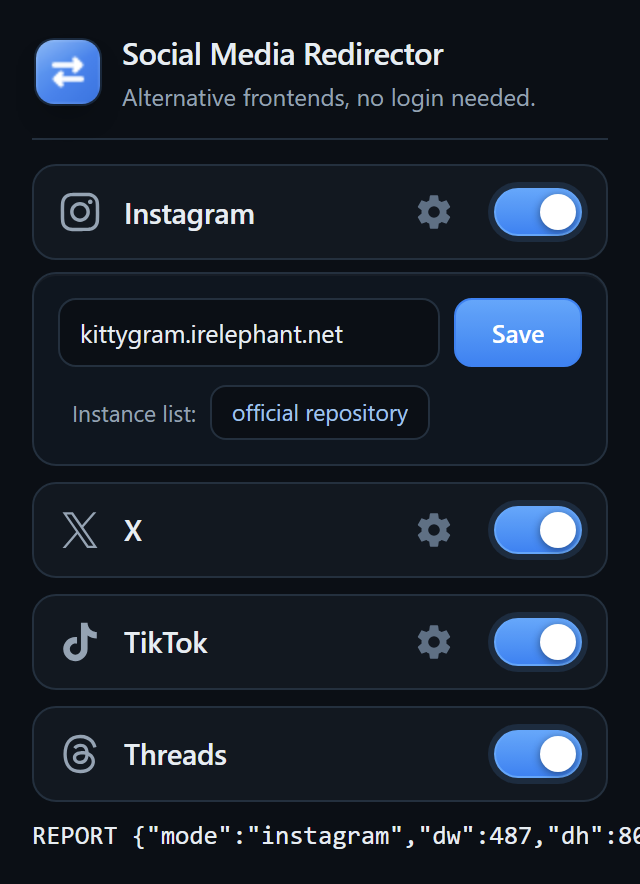
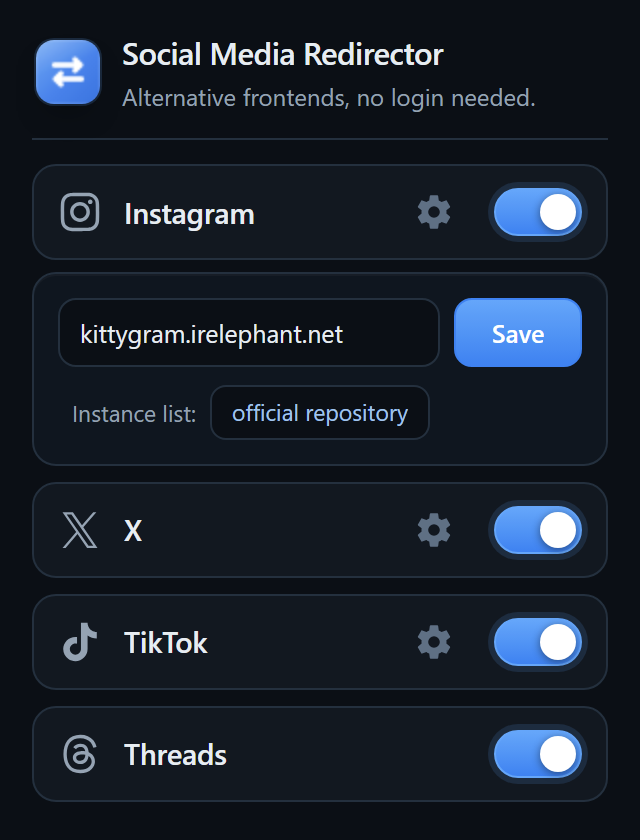
Landing page: drop the harness text from the popup shots

diff --git a/index.html b/index.html
@@ -54,7 +54,7 @@
   .store-buttons a:hover { opacity: .88; }
   /* hero: popup slider */
   .slider { width: 100%; max-width: 336px; margin: 0 auto; }
-  .frame { position: relative; aspect-ratio: 640 / 884; }
+  .frame { position: relative; aspect-ratio: 640 / 840; }
   .slide {
     position: absolute; inset: 0; border-radius: 16px; overflow: hidden;
     border: 1px solid var(--line); background: var(--panel);
